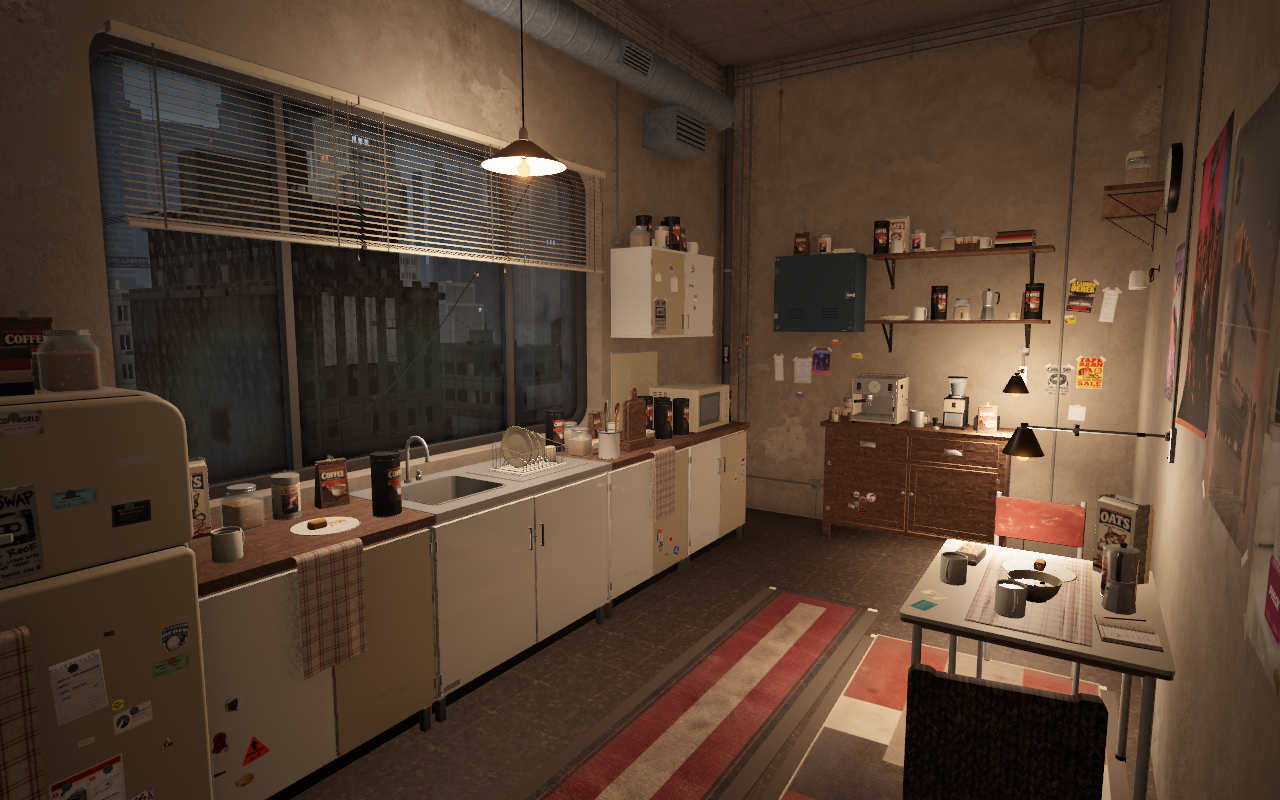
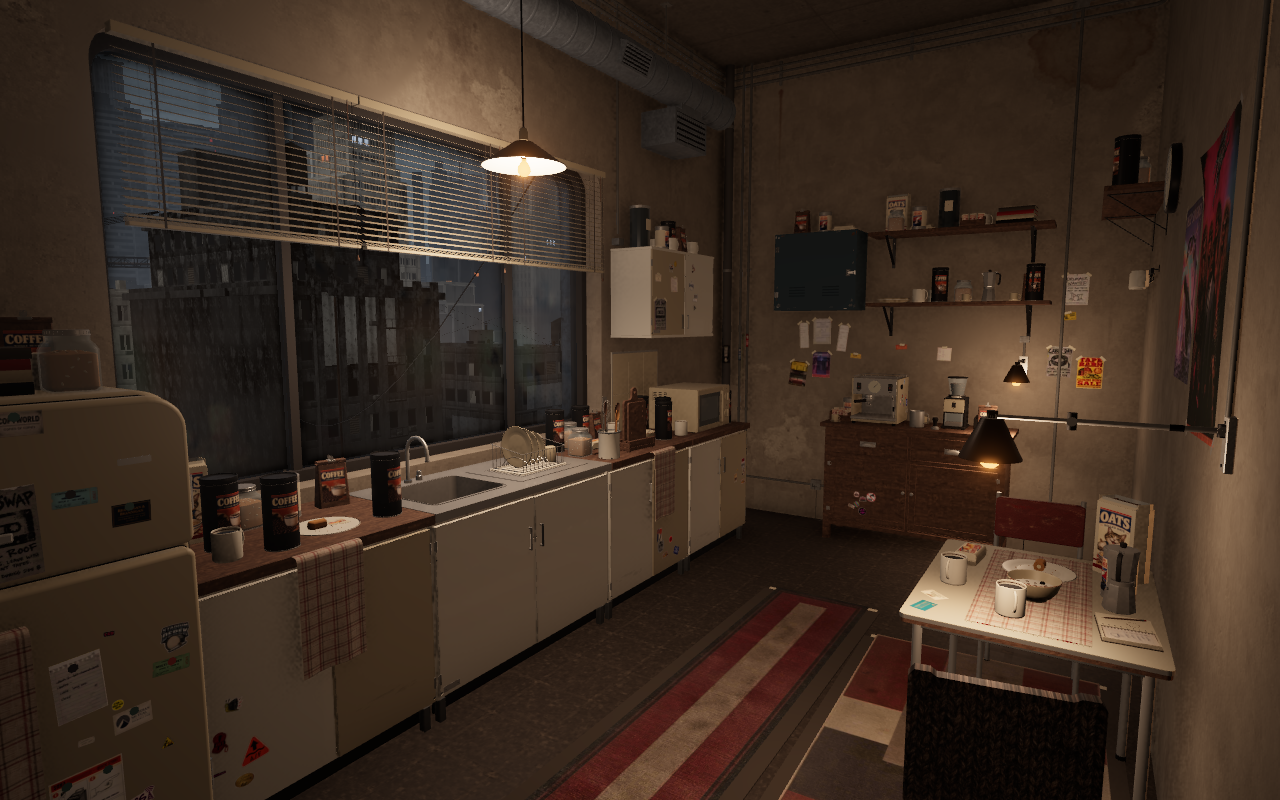
Show higher kitchen pantry and separated warm task lights

diff --git a/concepts/kitchen-comfort-2026-10-09/index.html b/concepts/kitchen-comfort-2026-10-09/index.html
@@ -26,7 +26,7 @@
   <p>Vibe collected and repaired this room herself. These concepts add places to settle in, useful rescued storage, illustrated pantry packs and traces of two girls sharing their daily life.</p>
   <p class="hint">Placement rule for every direction: furnishings find suitable walls and floor space; loose items choose compatible worktops, dining surfaces, shelves and hooks. Changing the room layout must repack them onto the available surfaces. The pictures describe the mood and useful groups, rather than fixed object coordinates.</p>
   <div class="notice">
-    <p><strong>Matching the approved coffee hangout.</strong> The reference below is the target. Fuller storage, larger wall art, personal papers, faded plaid and repaired furniture are in the actual room. Standing boards, a utensil crock and sixteen taller reused tins are finished. The latest pass brings the seats closer to the working counter, turns the illustrated oat carton toward the room and adds a loose knitted throw, worn fridge edges and faint lower cupboard scuffs.</p>
+    <p><strong>Matching the approved coffee hangout.</strong> The reference below is the target. Fuller storage, larger wall art, personal papers, faded plaid and repaired furniture are in the actual room. Standing boards, a utensil crock and sixteen taller reused tins are finished. The seats sit closer to the working counter, with a loose knitted throw, worn fridge edges and faint lower cupboard scuffs. The latest layout raises the pantry shelves and blue locker, separates the shaded task lights and adds three tall reused coffee-canister blockouts to suitable storage surfaces.</p>
     <p class="hint">Only shelf-stable food and drinks: oats, coffee, powdered non-dairy creamer, sugar and long-life cakes. No plants. Loose items choose compatible surfaces and reshuffle after furniture edits. The cloth shares the existing atlas, with unchanged GPU memory.</p>
     <p><a href="https://lcs-rooms.up.railway.app/?t=19">Open the live kitchen</a> · <a href="../../props/?item=kitchen-chair-blue">Inspect the catalog models</a></p>
   </div>
@@ -41,8 +41,8 @@
     <h2>Reference and current 3D progress</h2>
     <p>The room is being judged against this picture. Finished asset counts and the automatic comfort score do not measure the visual match.</p>
     <figure><a href="approved-target.png"><img src="approved-target.png" alt="Approved makeshift coffee kitchen reference with crowded pantry shelves, plaid towels, a knitted chair drape, personal papers and warm shaded lamps." width="1280" height="800" fetchpriority="high"></a><figcaption>Approved target · generated concept art.</figcaption></figure>
-    <figure><a href="progress-a.png?v=8801f34"><img src="progress-a.png?v=8801f34" alt="Current native 3D kitchen matching pass with fuller storage, personal walls, plaid fridge and counter towels, repaired cupboards and a loose knitted chair throw." width="1280" height="800" loading="lazy"></a><figcaption>Current 3D implementation · entrance view · closer seating, loose knitted throw and illustrated oat carton.</figcaption></figure>
-    <figure><a href="progress-b.png?v=8801f34"><img src="progress-b.png?v=8801f34" alt="Current opposing native 3D kitchen view with illustrated pantry supplies, a shaded table lamp, plaid runner and repaired mismatched chairs." width="1280" height="800" loading="lazy"></a><figcaption>Current 3D implementation · opposing view.</figcaption></figure>
+    <figure><a href="progress-a.png?v=8e411d5"><img src="progress-a.png?v=8e411d5" alt="Current native 3D kitchen with raised pantry storage, separated warm task lights, personal papers, plaid towels and a loose knitted chair throw." width="1280" height="800" loading="lazy"></a><figcaption>Current 3D implementation · entrance view · higher pantry storage and separated warm task lights; three glass-canister blockouts await their final model.</figcaption></figure>
+    <figure><a href="progress-b.png?v=8e411d5"><img src="progress-b.png?v=8e411d5" alt="Current opposing native 3D kitchen view with illustrated pantry supplies, a shaded table lamp, plaid runner and repaired mismatched chairs." width="1280" height="800" loading="lazy"></a><figcaption>Current 3D implementation · opposing view.</figcaption></figure>
     <p class="hint">The actual room keeps its existing proportions and city. Its light is harder and its broad enamel faces more uniform than the generated reference. Native pictures at noon, dusk and night have a clear doorway, no waiting surface inventory and no missing prop models.</p>
   </section>
   <section id="details">
